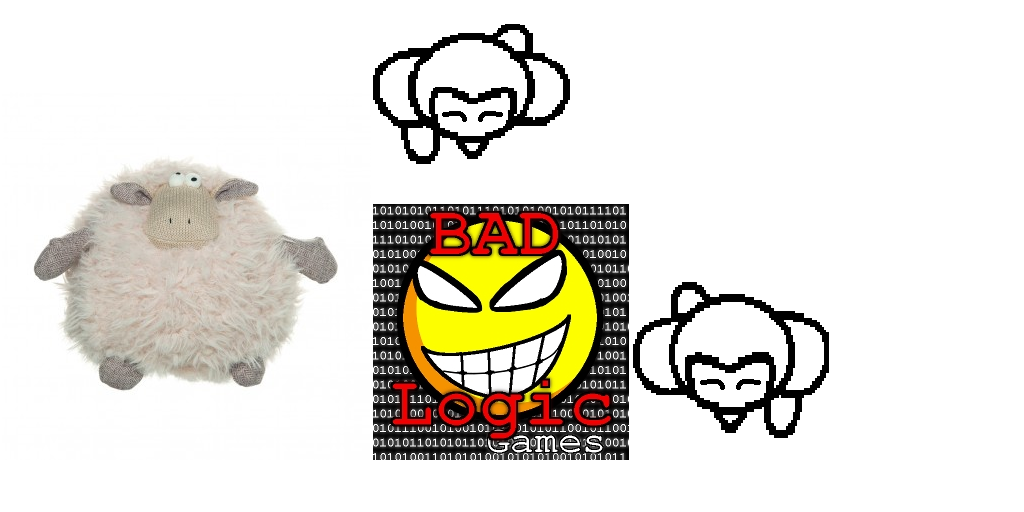
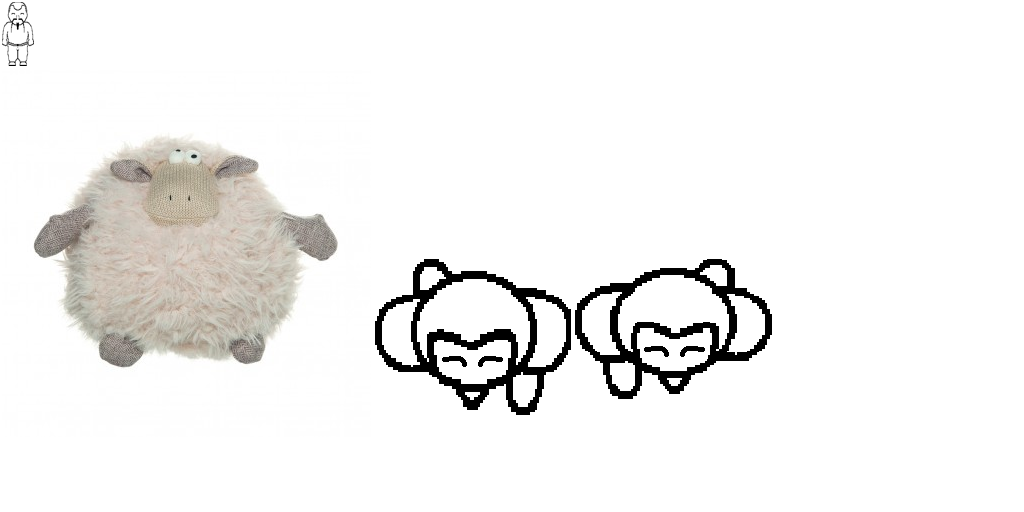
tilemover working

Changed region(s): [[0.0312, 0.25, 0.8125, 0.9062], [0.3438, 0.0312, 0.5625, 0.3438], [0.0, 0.0, 0.0312, 0.125]]

diff --git a/core/src/com/mygdx/game/entities/TileMover.kt b/core/src/com/mygdx/game/entities/TileMover.kt
@@ -1,51 +1,87 @@
 package com.mygdx.game.entities
 
+import com.badlogic.gdx.Gdx
+import com.badlogic.gdx.math.GridPoint2
 import com.badlogic.gdx.math.Rectangle
+import com.badlogic.gdx.math.Vector2
 import kotlin.math.abs
 
 abstract class TileMover: GameObject() {
 
-    val IDLE = 0f
-    val UP = 1f
-    val DOWN = 2f
-    val LEFT = 3f
-    val RIGHT = 4f
+    enum class MoveAction(val vec: Vector2, val point: GridPoint2) {
+        IDLE(Vector2(0f,0f), GridPoint2(0,0)),
+        LEFT(Vector2(-1f, 0f), GridPoint2(-1,0)),
+        RIGHT(Vector2(1f, 0f), GridPoint2(1,0)),
+        UP(Vector2(0f,1f), GridPoint2(0,1)),
+        DOWN(Vector2(0f,-1f), GridPoint2(0,-1))
+    }
 
-    var orientation = IDLE
+    var currentTile = GridPoint2(position.x.div(TILE_WIDTH).toInt(), position.y.div(TILE_HEIGHT).toInt())
+    var targetTile = currentTile.cpy()
 
-    var speed = 10f
+    var currentMove = MoveAction.IDLE
+    var nextMove = MoveAction.IDLE
+
+    var speed = 50f
     var dx: Float = 0f
     var dy: Float = 0f
-    var rectangle : Rectangle = Rectangle(0f,0f,
-        100f, 100f)
-
-    abstract fun move();
-
+    var rectangle : Rectangle = Rectangle(0f,0f, TILE_WIDTH, TILE_HEIGHT)
 
     fun update() {
         setOrientation()
-        moveTile()
-        //rotation = atan2(this.dy, this.dx)  + PI.toFloat()/2 % 2f * PI.toFloat()
-        //move()
-        rectangle.setPosition(x,y)
+        handleMovement()
+        rectangle.setPosition(position)
     }
 
-    private fun moveTile() {
-        when(orientation){
-            LEFT -> x -= speed
-            RIGHT -> x += speed
-            UP -> y += speed
-            DOWN -> y -= speed
+    private fun handleMovement() {
+        if(currentMove == MoveAction.IDLE) {
+            return
         }
+        //cpy performance?
+        var nextPos = position.cpy().mulAdd(currentMove.vec, speed*Gdx.graphics.deltaTime)
+
+        var xMismatch= (targetTile.x* TILE_WIDTH).toInt() != nextPos.x.toInt()
+        var yMismatch = (targetTile.y* TILE_WIDTH).toInt() != nextPos.y.toInt()
+
+        if(xMismatch || yMismatch ) {
+            // Tile move transition
+            position = nextPos
+            return
+        }
+        //Finish movement
+        currentTile.add(currentMove.point)
+        prepareMovement(nextMove)
+        applySmoothing(nextPos)
+    }
+
+    private fun applySmoothing(nextPos: Vector2) {
+        // Smoothing of movement action transitions
+        nextPos.sub(position)
+        position.set(currentTile.x* TILE_WIDTH, currentTile.y* TILE_HEIGHT)
+        position.mulAdd(currentMove.vec, abs(nextPos.x + nextPos.y))
     }
 
     private fun setOrientation() {
-        var newOrientation = IDLE
+        var newMove = MoveAction.IDLE
         if(abs(dx) > abs(dy)) {
-            newOrientation = if (dx < 0) LEFT else RIGHT
+            newMove = if (dx < 0) MoveAction.LEFT else MoveAction.RIGHT
         } else if(dy != 0f) {
-            newOrientation = if (dy < 0) DOWN else UP
+            newMove = if (dy < 0) MoveAction.DOWN else MoveAction.UP
         }
-        orientation = newOrientation
+
+        if(currentMove == MoveAction.IDLE){
+            prepareMovement(newMove)
+        }
+        nextMove = newMove
+    }
+
+    private fun prepareMovement(nextMove: MoveAction) {
+        currentMove = nextMove
+        targetTile.add(currentMove.point)
+    }
+
+    companion object {
+        private const val TILE_HEIGHT = 32f
+        private const val TILE_WIDTH = 32f
     }
 }

diff --git a/core/src/com/mygdx/game/World.kt b/core/src/com/mygdx/game/World.kt
@@ -24,9 +24,9 @@ class World(camera: OrthographicCamera, player: Player) {
 
     init {
         Gdx.input.inputProcessor = ControllerFactory.create(player)
-        camera.position.x = player.x
-        camera.position.y = player.y
-
+        camera.position.x = player.position.x
+        camera.position.y = player.position.y
+        camera.zoom = 0.7f
         tiledMap = TmxMapLoader().load("tilemap.tmx")
         tiledMapRenderer = OrthogonalTiledMapRenderer(tiledMap)
 
@@ -42,7 +42,7 @@ class World(camera: OrthographicCamera, player: Player) {
         sheep.update()
 
         if (player.rectangle.overlaps(sheep.rectangle)) {
-            sheep.x -= 250f
+            sheep.position.x = sheep.position.x - 250f
         }
 
         sheep.draw(batch, gameTime)
@@ -52,13 +52,13 @@ class World(camera: OrthographicCamera, player: Player) {
     private fun moveCamera() {
         //example camera implementation
         val diff = 100
-        val dx =  player.x - camera.position.x
-        val dy =  player.y - camera.position.y
+        val dx =  player.position.x - camera.position.x
+        val dy =  player.position.y - camera.position.y
         if(abs(dx) > diff) {
-            camera.position.x += sign(dx)*player.speed
+            camera.position.x += sign(dx)*player.speed*Gdx.graphics.deltaTime
         }
         if(abs(dy) > diff) {
-            camera.position.y += sign(dy)*player.speed
+            camera.position.y += sign(dy)*player.speed*Gdx.graphics.deltaTime
         }
         camera!!.update()
     }

diff --git a/core/src/com/mygdx/game/entities/GameObject.kt b/core/src/com/mygdx/game/entities/GameObject.kt
@@ -3,6 +3,7 @@ package com.mygdx.game.entities
 import com.badlogic.gdx.graphics.g2d.Animation
 import com.badlogic.gdx.graphics.g2d.Batch
 import com.badlogic.gdx.graphics.g2d.TextureRegion
+import com.badlogic.gdx.math.Vector2
 import com.mygdx.game.visual.AnimationType
 import com.mygdx.game.visual.GameAssets
 import kotlin.math.PI
@@ -11,8 +12,7 @@ abstract class GameObject() {
     lateinit var assetId: String
     lateinit var animation: Animation<TextureRegion>
 
-    var x = 1f
-    var y = 1f
+    var position = Vector2(0f, 0f)
 
 
     var rotation = 0f
@@ -20,7 +20,7 @@ abstract class GameObject() {
 
     fun draw(batch: Batch, gameTime: Float) {
         val frame = animation.getKeyFrame(gameTime)
-        batch.draw(frame, x, y, frame.regionWidth / 2f, frame.regionHeight / 2f,
-            frame.regionWidth.toFloat(), frame.regionHeight.toFloat(), 1f, 1f, 180 + rotation*180/ PI.toFloat())
+        batch.draw(frame, position.x, position.y, frame.regionWidth / 2f, frame.regionHeight / 2f,
+            frame.regionWidth.toFloat(), frame.regionHeight.toFloat(), 1f, 1f, rotation*180/ PI.toFloat())
     }
 }

diff --git a/core/src/com/mygdx/game/entities/Sheep.kt b/core/src/com/mygdx/game/entities/Sheep.kt
@@ -1,7 +1,5 @@
 package com.mygdx.game.entities
 
-import com.badlogic.gdx.Gdx
-import com.badlogic.gdx.math.MathUtils.random
 import com.mygdx.game.visual.AnimationType
 import com.mygdx.game.visual.Asset
 import com.mygdx.game.visual.GameAssets
@@ -9,15 +7,7 @@ import com.mygdx.game.visual.GameAssets
 class Sheep : TileMover() {
 
     init {
-        assetId = Asset.SHEEP.id
+        assetId = Asset.PLAYER.id
         animation = GameAssets.animationMap[assetId + AnimationType.RUNNING.id]!!
-    }
-
-    override fun move() {
-
-        dx = random.nextFloat()*100
-
-        x += dx * speed * Gdx.graphics.deltaTime
-        y += dy * speed * Gdx.graphics.deltaTime
     }
 }

diff --git a/core/src/com/mygdx/game/entities/Player.kt b/core/src/com/mygdx/game/entities/Player.kt
@@ -12,17 +12,9 @@ class Player() : TileMover() {
         animation = GameAssets.animationMap[assetId + AnimationType.IDLE.id]!!
     }
 
-
-    override fun move() {
-        x += dx * speed * Gdx.graphics.deltaTime
-        y += dy * speed * Gdx.graphics.deltaTime
-    }
-
-
     fun updateMovement(dx: Float, dy: Float) {
         //probably need to throttle assigns
-        animation = GameAssets.animationMap[assetId + AnimationType.RUNNING.id]!!
-
+        animation = GameAssets.animationMap[assetId + AnimationType.IDLE.id]!!
         this.dx = dx
         this.dy = dy
     }
